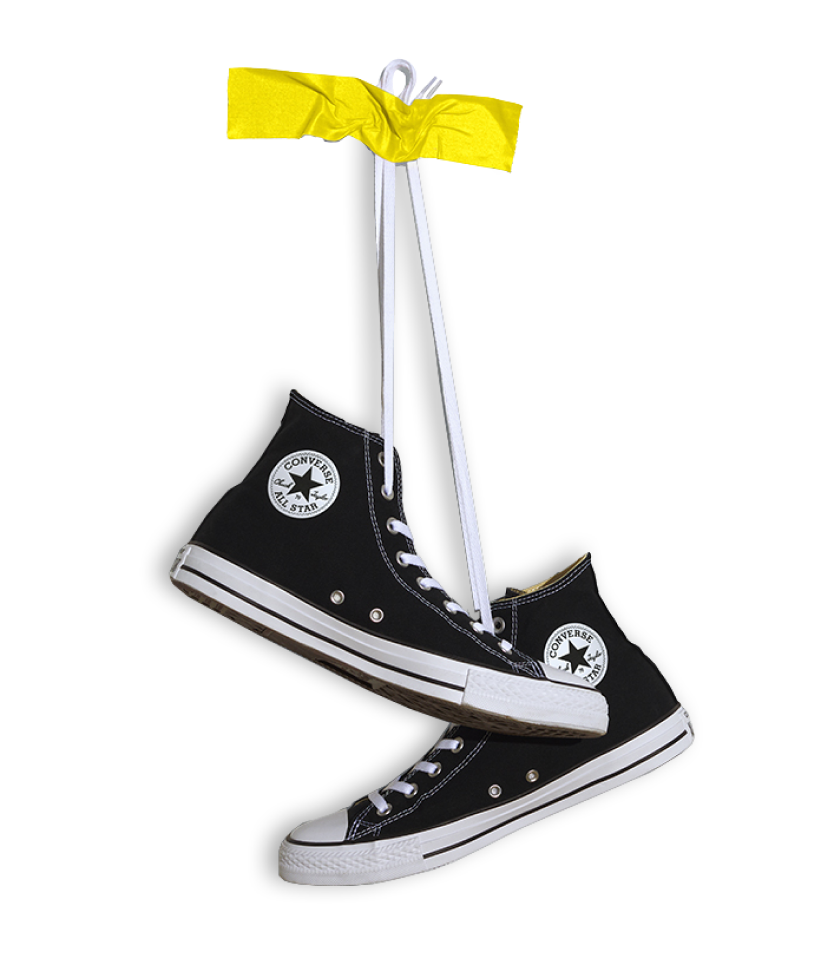
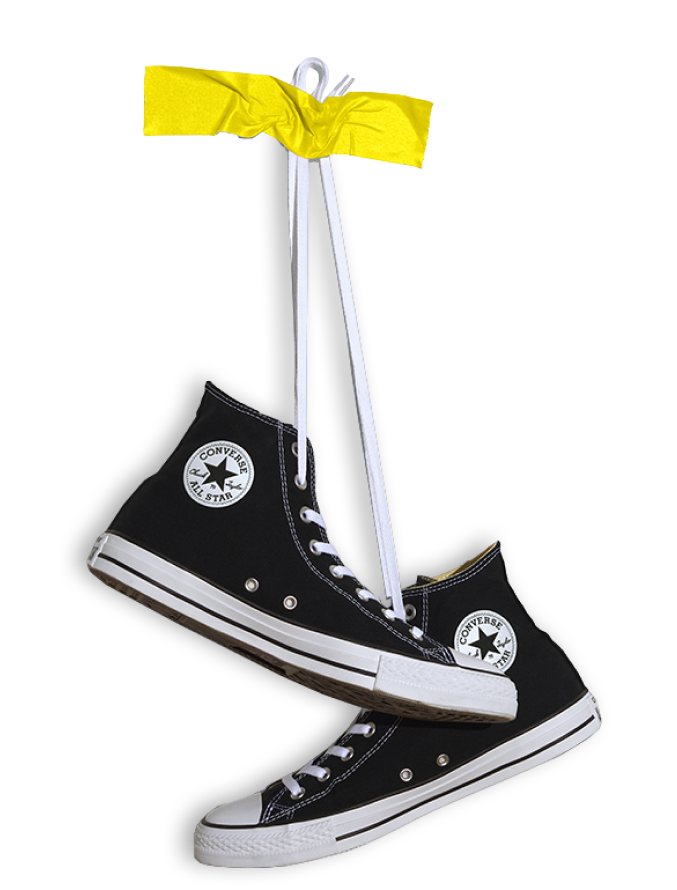
1

Changed region(s): [[0.0931, 0.0607, 0.8996, 1.0]]

diff --git a/10convers/index.html b/10convers/index.html
@@ -10,6 +10,7 @@
     <link rel="stylesheet" href="css/fullpage.css">
     <link rel="stylesheet" href="css/reset.css">
     <link rel="stylesheet" href="css/style.css">
+    
 
     <script src="js/jquery-3.1.1.min.js"></script>
     <script src="js/jquery.fullPage.js"></script>
@@ -43,6 +44,12 @@
                         $(".view02").removeClass("on") 
                     }
 
+                    if(index==2){
+                        $(".view03").addClass("on")
+                    }else{
+                        $(".view03").removeClass("on") 
+                    }
+
                 }
             });
         })
@@ -54,7 +61,7 @@
         <img src="images/logo.png" alt="">
         <ul class="clearfix" id="topMenu">
             <li data-menuanchor="m1st"><a href="#m1st">CONVERSE</a></li>
-            <li data-menuanchor="m2st"><a href="#m2st">MORE</a></li>
+            <li data-menuanchor="m2st"><a href="#m2st">PORDUCT</a></li>
             <li data-menuanchor="m3st"><a href="#m3st">COLORWAY</a></li>
             <li data-menuanchor="m4st"><a href="#m4st">REVIEW</a></li>
         </ul>
@@ -70,17 +77,15 @@
         <!-- page2 -->
         <div class="section page2" data-anchor="m2st">
             <div class="container view02">
-                <img src="images/page02_01_img.png" class="text-center" alt="">
+                <img src="images/page02_img.png" class="text-center" alt="">
             </div>
         </div>
         
         <!-- page3 -->
         <div class="section page3" data-anchor="m3st">
-            <p class="display-3 mb-2"><strong>GO DAILY LIFE</strong></p>
-            <h1 class="mb-2">당신의 일상과 함께하는 에코</h1>
-            <h4>매일 다른 무드로 나를 표현하고 싶다면, <br>
-                플레이 그린 플리스 자켓이 딱이지!
-            </h4>
+            <div class="view03">
+                <img src="images/page03_img.png" alt="">
+            </div>
         </div>
         <!-- page4 -->
         <div class="section page4" data-anchor="m4st">

diff --git a/10convers/css/style.css b/10convers/css/style.css
@@ -9,16 +9,19 @@ body{font-family: 'Noto Sans KR', sans-serif;}
 }
 .section.page1{background-image: url(../images/page01_bg.png);}
 .section.page2{background-image: url(../images/page02_bg.png);}
-.section.page3{background: #fff;}
+.section.page3{background-image: url(../images/page03_bg.png);}
 .section.page4{background: skyblue;}
 
 .section .view{width: 100%;height: 100%;position: relative;}
 
-.section .view01{transform:translateY(-150vh); transition:0.8s;}
-.section .view01.on{transform:translateY(0)}
+.section .view01{transform:translateY(-150vh); transition:0.6s;}
+.section .view01.on{transform:translateY(0);}
 
-.section .view02{transform:translateX(-250vh);transition:0.5s;}
-.section .view02.on{transform:translateX(-45vh)}
+.section .view02{transform:translateX(-250vh);transition:0.4s;}
+.section .view02.on{transform:translateX(-45vh);}
+
+.section .view03{transform:translateX(0);transition:0.4s;}
+.section .view03.on{transform:translateX(-100vh);}
 /* 메뉴바 */
 #navTop{
     background:#fff;
